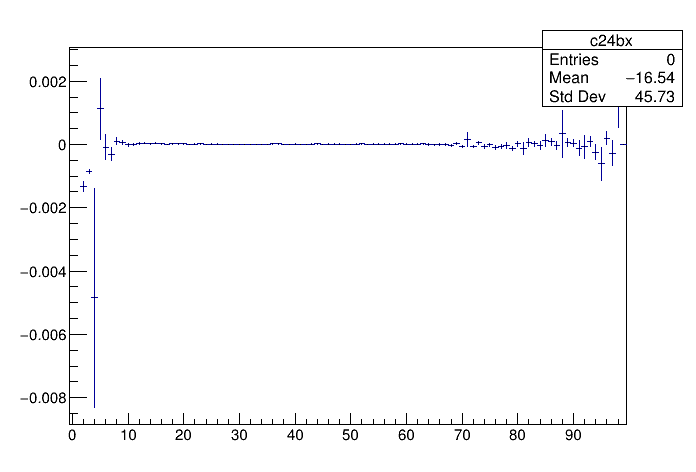
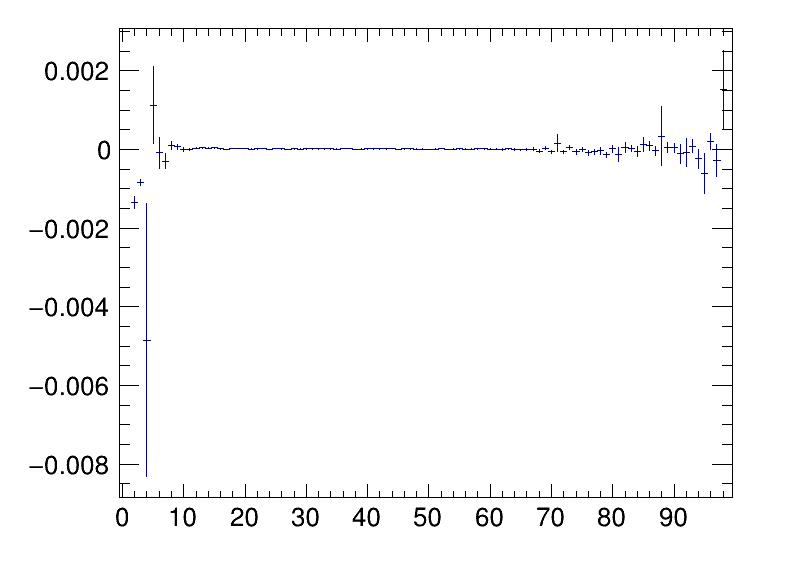
Minor update to the THStack

diff --git a/tracks.C b/tracks.C
@@ -57,17 +57,16 @@ void tracks()
 
   //creation of single histogram
 
-  THStack *hs = new THStack("hs", "Superimposed histograms");
-  // hs -> GetXaxis()->SetTitle("N_{tracks}^{FVTX}");
-  //hs -> GetYaxis()->SetTitle("c_{2}{4}");
+  THStack *hs = new THStack("hs","");
   hs -> Add(c24ax);
   hs -> Add(c24bx);
   hs -> Add(c24x);
-  //  hs -> GetXaxis()->SetTitle("N_{tracks}^{FVTX}");
-  //  hs -> GetYaxis()->SetTitle("c_{2}{4}");
   hs -> Draw();
-  hs ->GetXaxis()->SetTitle("N_{tracks}{FVTX}");
-  hs ->GetYaxis()->SetTitle("c_{2}{4}");
+  hs -> GetXaxis()->SetTitle("N_{tracks}^{FVTX}");
+  hs -> GetYaxis()->SetTitle("c_{2}{4}");
+  hs->SetMaximum(1.0e-4);
+  hs->SetMinimum(-1.0e-4);
+  hs->GetXaxis()->SetRangeUser(0,50);
   c1.Print("hs.png");
 
   return;
